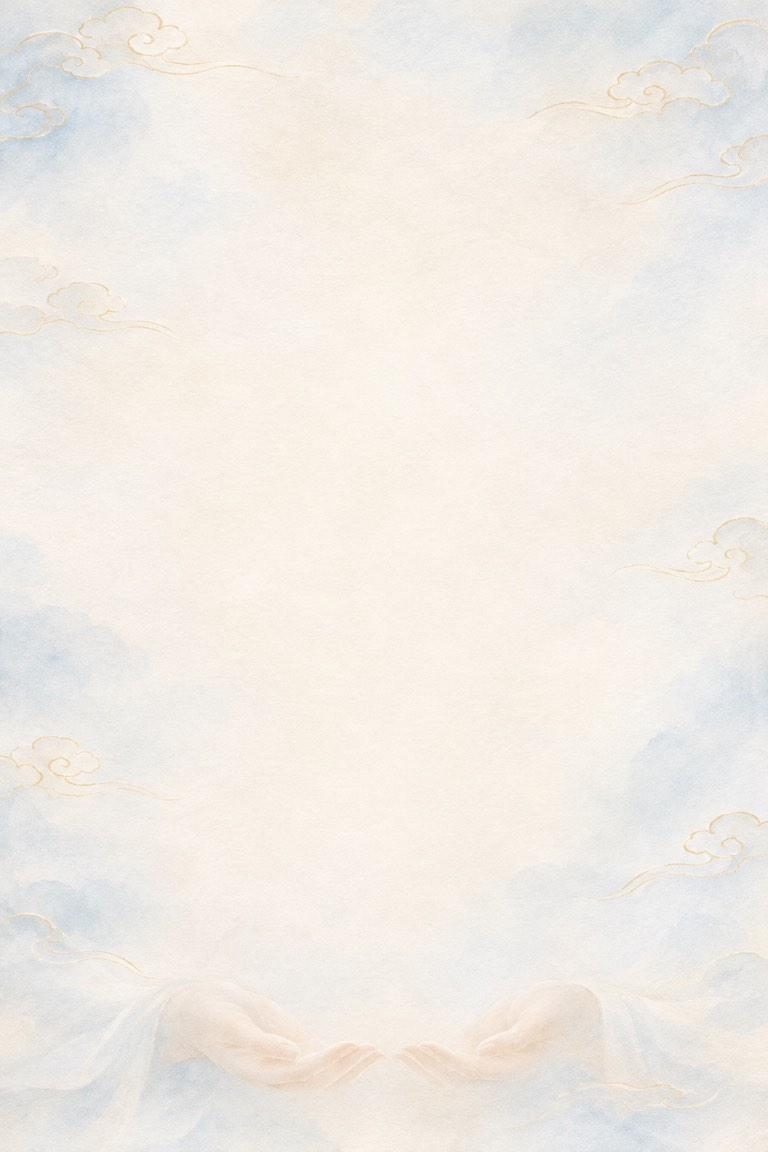
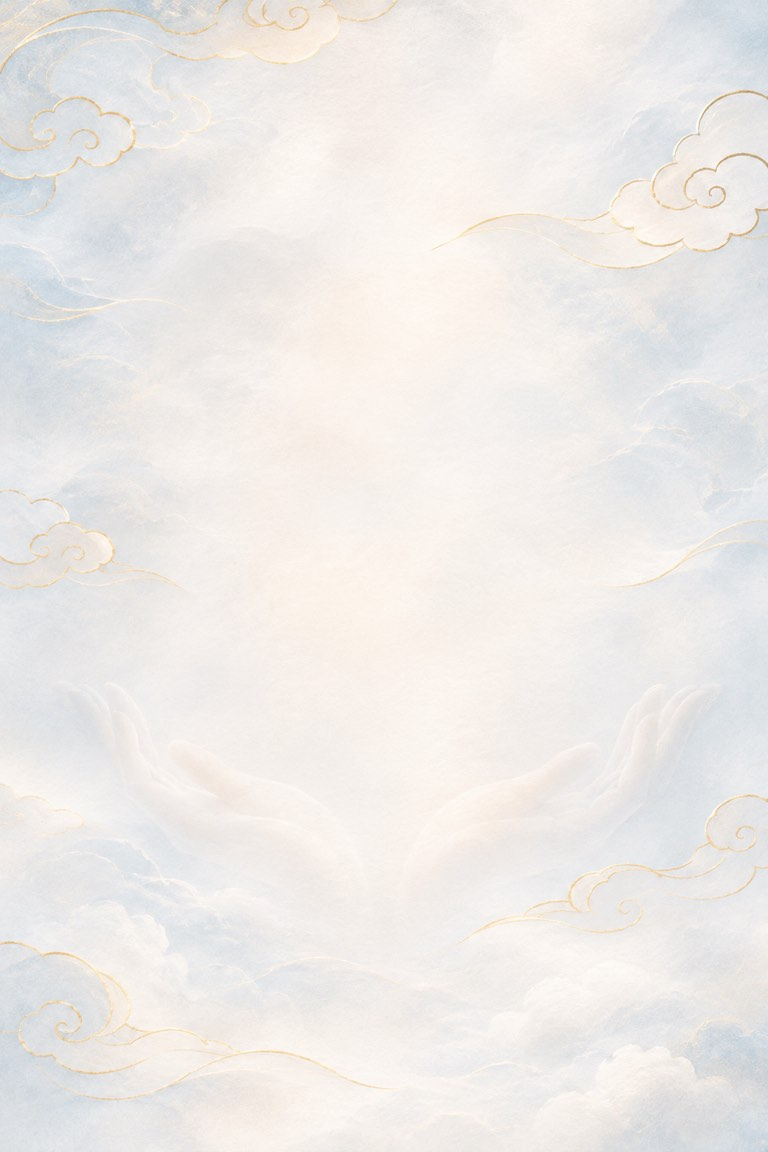
Use shared oracle background artwork

diff --git a/index.html b/index.html
@@ -44,7 +44,7 @@
       bottom: 0;
       left: 0;
       height: 240px;
-      background: url("assets/oracle-background.jpg") center bottom / 100vw auto no-repeat;
+      background: url("assets/oracle-background.jpg") center 75% / 100vw auto no-repeat;
       opacity: .86;
       -webkit-mask-image: linear-gradient(to bottom, transparent, #000 38%);
       mask-image: linear-gradient(to bottom, transparent, #000 38%);
